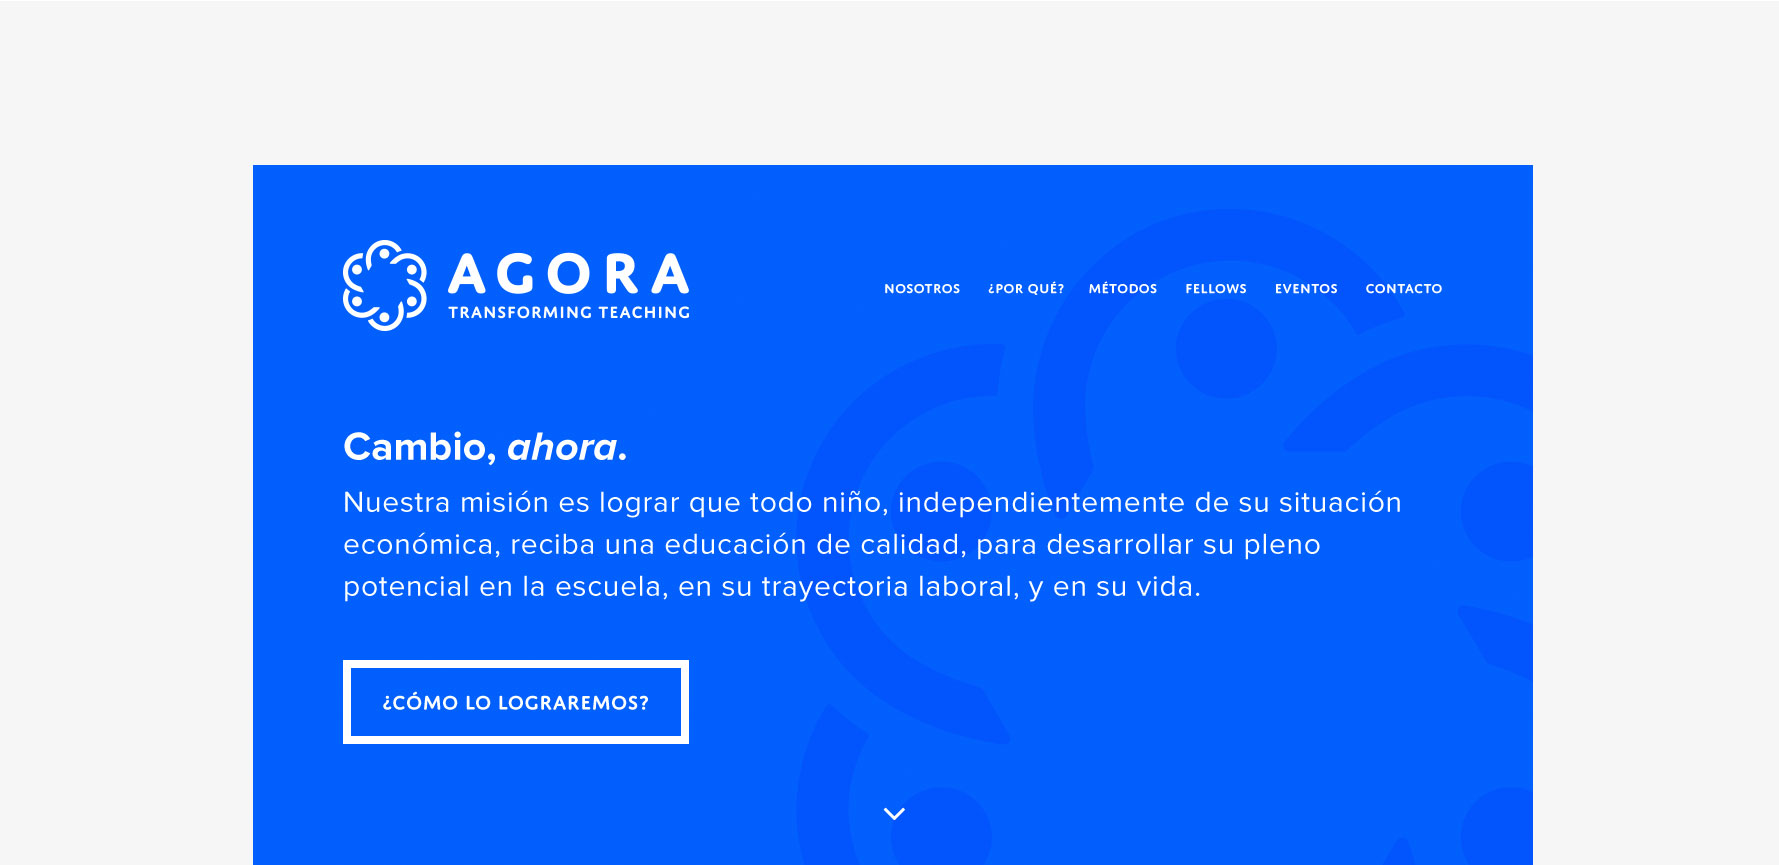
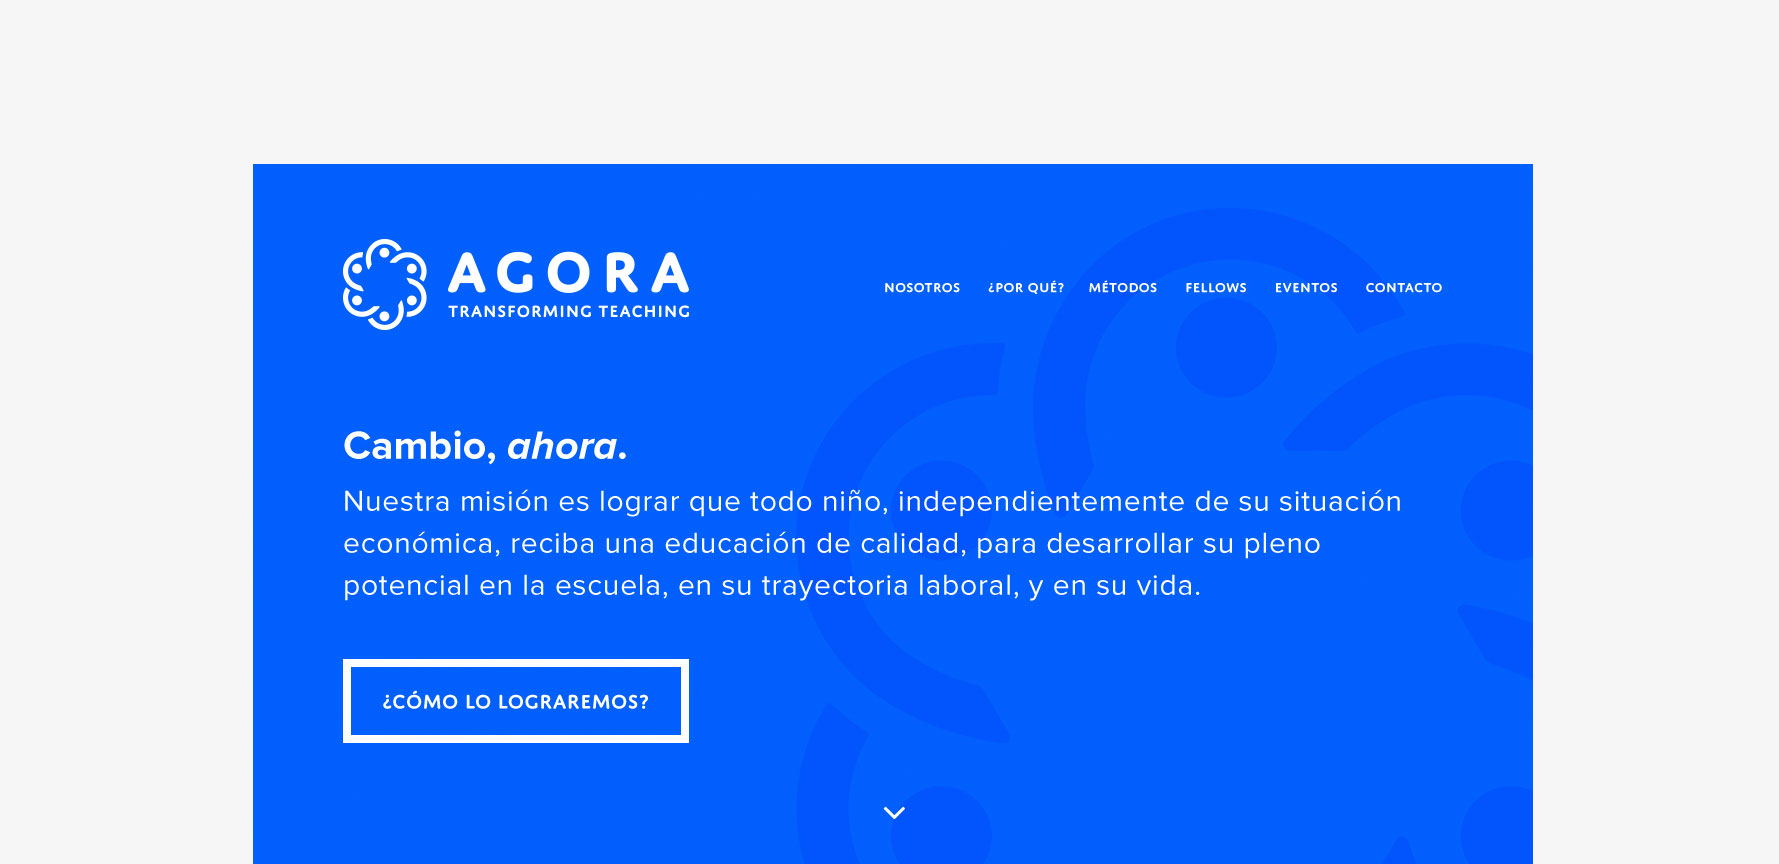
refactor(all): replace bad images, relink internal links

diff --git a/_includes/nav.html b/_includes/nav.html
@@ -2,9 +2,9 @@
     <nav class="neuzeit">
         <a id="salt-logo" href="/">Salt.</a>
         <ul>
-            <li><a class="smooth-scroll" href="#work">Work <i class="icon-arrow"></i></a></li>
-            <li><a class="smooth-scroll" href="#about">About <i class="icon-arrow"></i></a></li>
-            <li><a class="smooth-scroll" href="#contact">Contact <i class="icon-arrow"></i></a></li>
+            <li><a class="smooth-scroll" href="{{site.baseurl}}/#work">Work <i class="icon-arrow"></i></a></li>
+            <li><a class="smooth-scroll" href="{{site.baseurl}}/#about">About <i class="icon-arrow"></i></a></li>
+            <li><a class="smooth-scroll" href="{{site.baseurl}}/#contact">Contact <i class="icon-arrow"></i></a></li>
             <li class="instagram-link cooper"><a href="http://www.instagram.com/just_addsalt" target="_blank"><i class="icon-instagram"></i>just_addsalt</a></li>
         </ul>
     </nav>

diff --git a/scss/components/_internal.scss b/scss/components/_internal.scss
@@ -363,10 +363,10 @@ blockquote {
         top: 50%;
         left: 0;
         right: 0;
-        -webkit-transform: translateY(-75%);
-        -moz-transform: translateY(-75%);
-        -ms-transform: translateY(-75%);
-        -o-transform: translateY(-75%);
-        transform: translateY(-75%);
+        -webkit-transform: translateY(-61%);
+        -moz-transform: translateY(-61%);
+        -ms-transform: translateY(-61%);
+        -o-transform: translateY(-61%);
+        transform: translateY(-61%);
     }
 }

diff --git a/work/agora.html b/work/agora.html
@@ -44,6 +44,5 @@ next: lets-matcha
 <img class="flex-img" src="{{site.baseurl}}/images/portfolio/agora-7-2.jpg">
 <img class="flex-img" src="{{site.baseurl}}/images/portfolio/agora-7-3.jpg">
 <img class="flex-img" src="{{site.baseurl}}/images/portfolio/agora-7-4.jpg">
-<img class="flex-img" src="{{site.baseurl}}/images/portfolio/agora-7-5.jpg">
 
 <img class="flex-img push-top" src="{{site.baseurl}}/images/portfolio/agora-8.jpg">

diff --git a/css/style.css b/css/style.css
@@ -2431,7 +2431,7 @@ blockquote cite:after {
   top: 50%;
   left: 0;
   right: 0;
-  -webkit-transform: translateY(-75%);
-  -ms-transform: translateY(-75%);
-  transform: translateY(-75%);
+  -webkit-transform: translateY(-61%);
+  -ms-transform: translateY(-61%);
+  transform: translateY(-61%);
 }

diff --git a/work/dive.html b/work/dive.html
@@ -46,7 +46,7 @@ next: rhapsody-strategies
 
 
 <!-- Single Image -->
-<div class="center-holder push-top">
+<div class="center-holder push-top dive-loader">
     <img loop=infinite class="flex-img" src="{{site.baseurl}}/images/portfolio/dive-loader-200px-wide.gif">
 </div>
 
